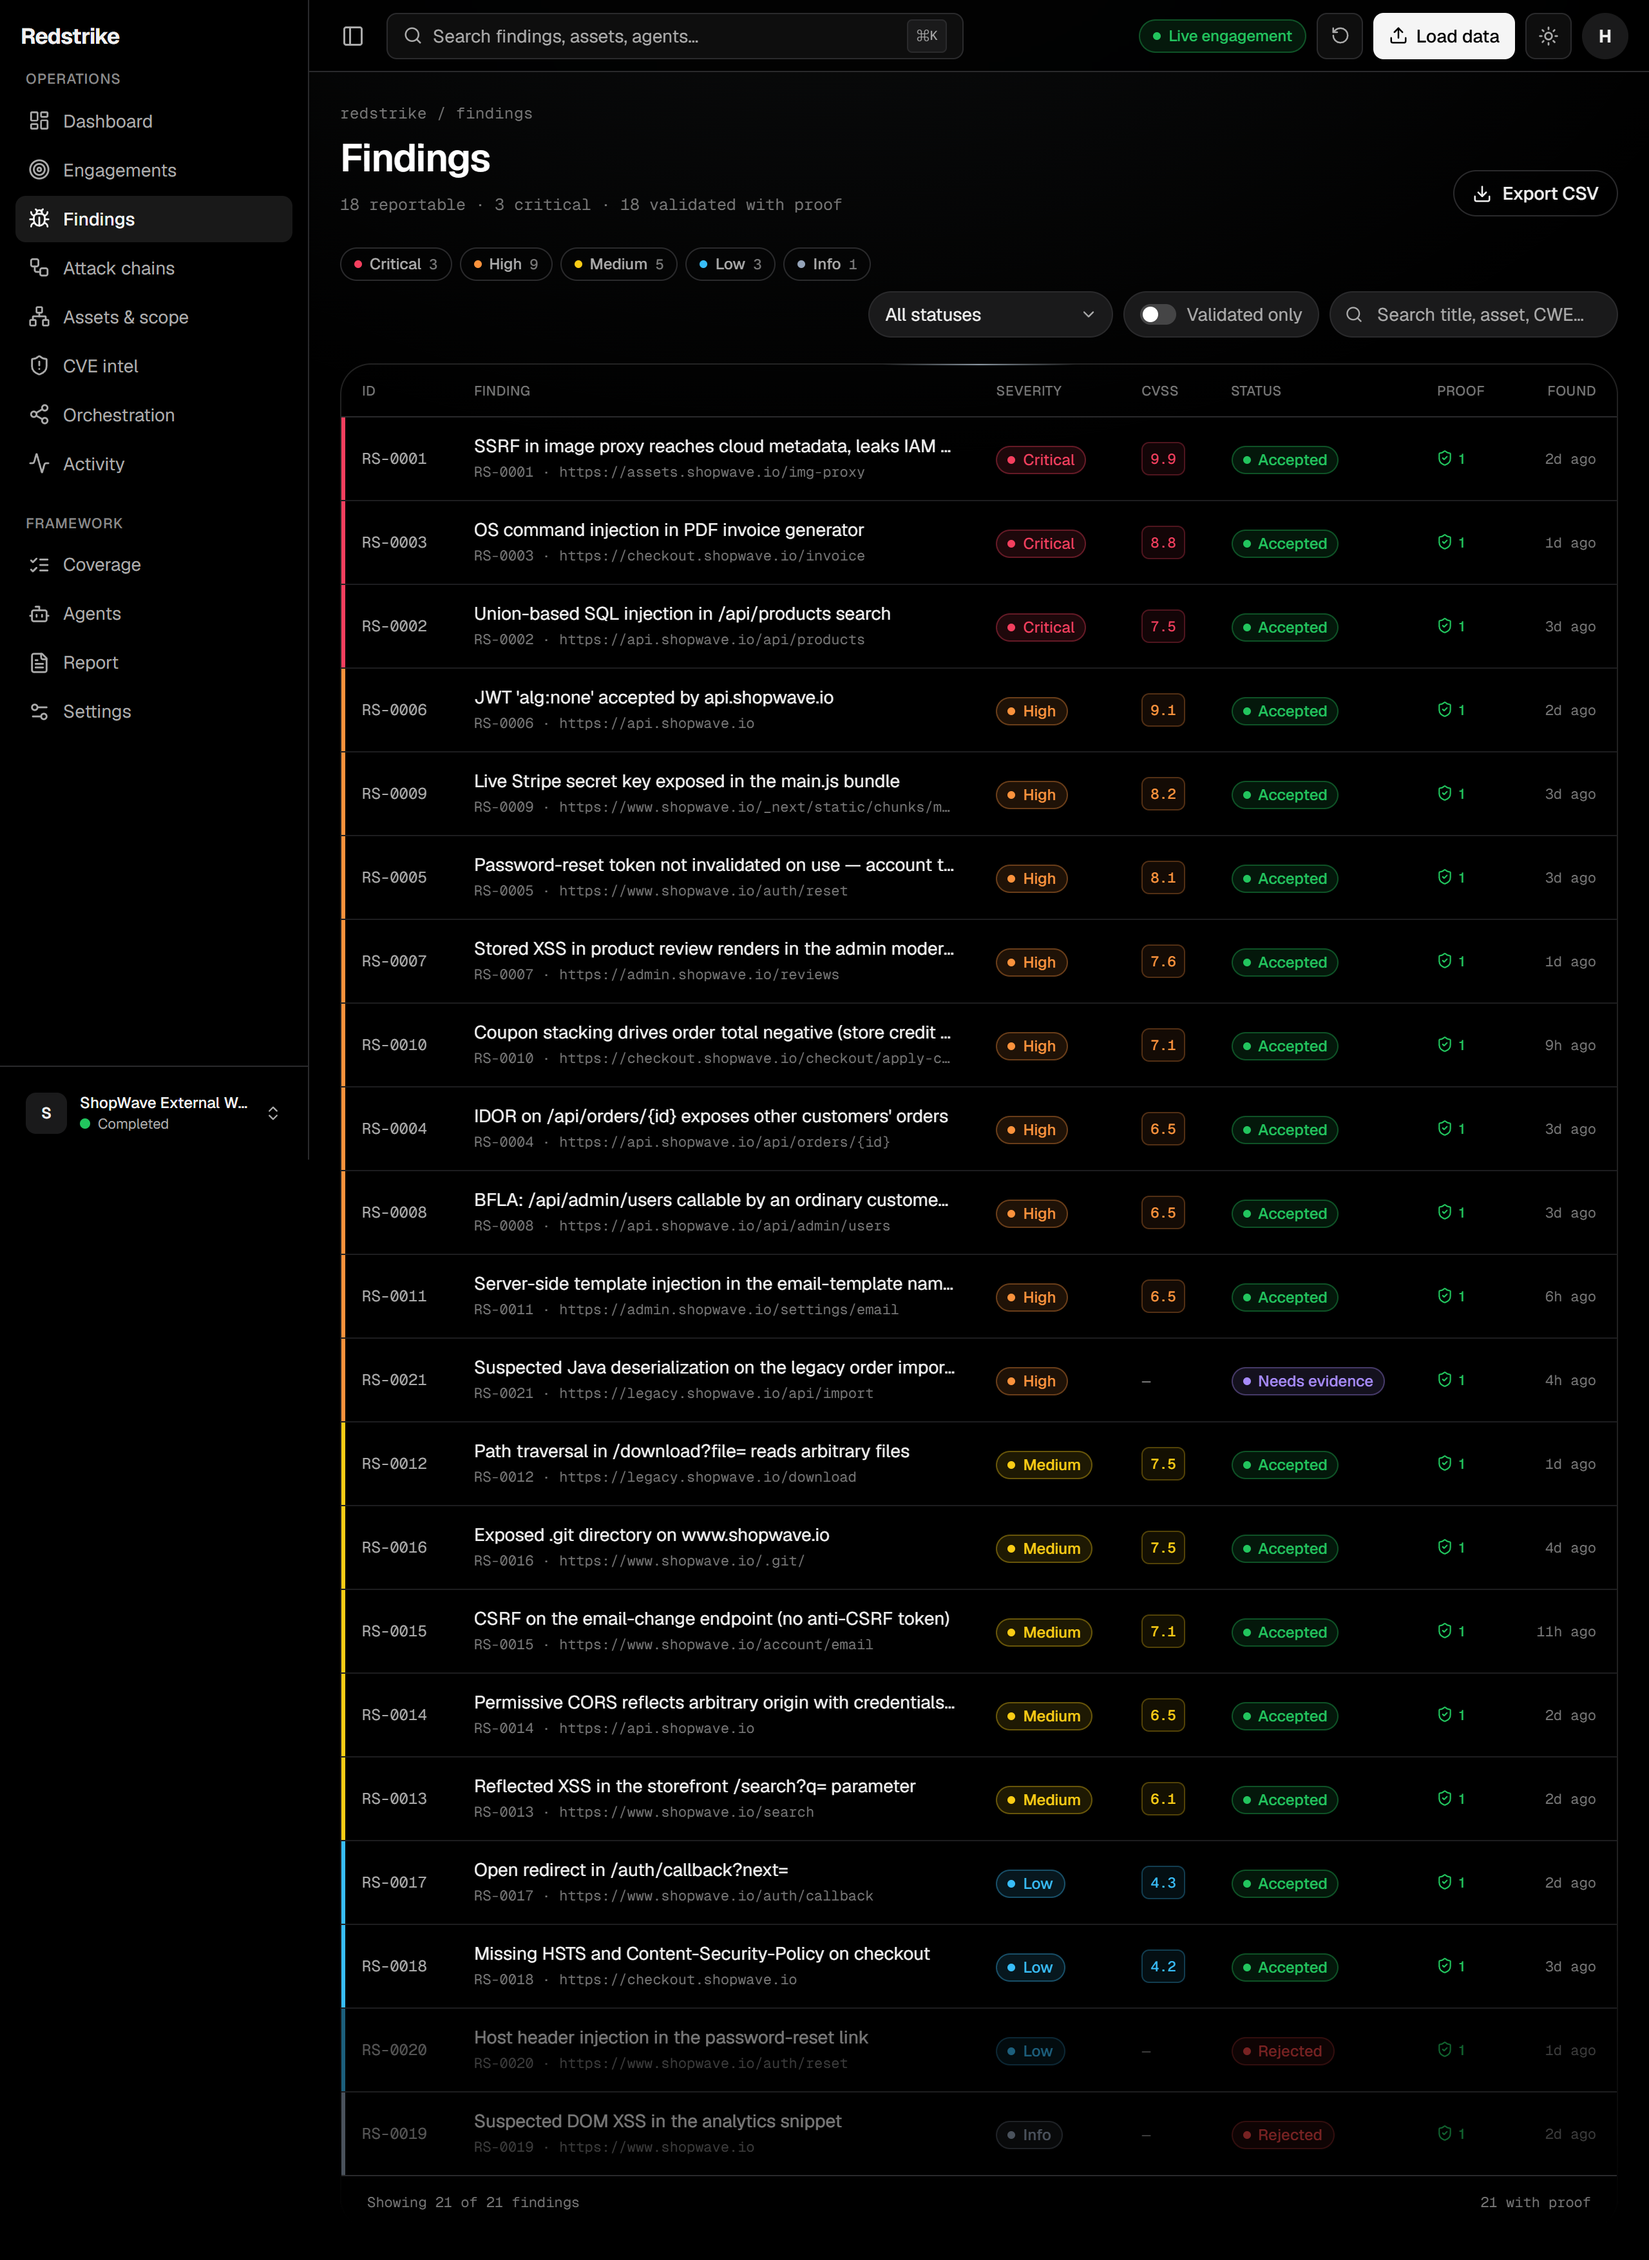
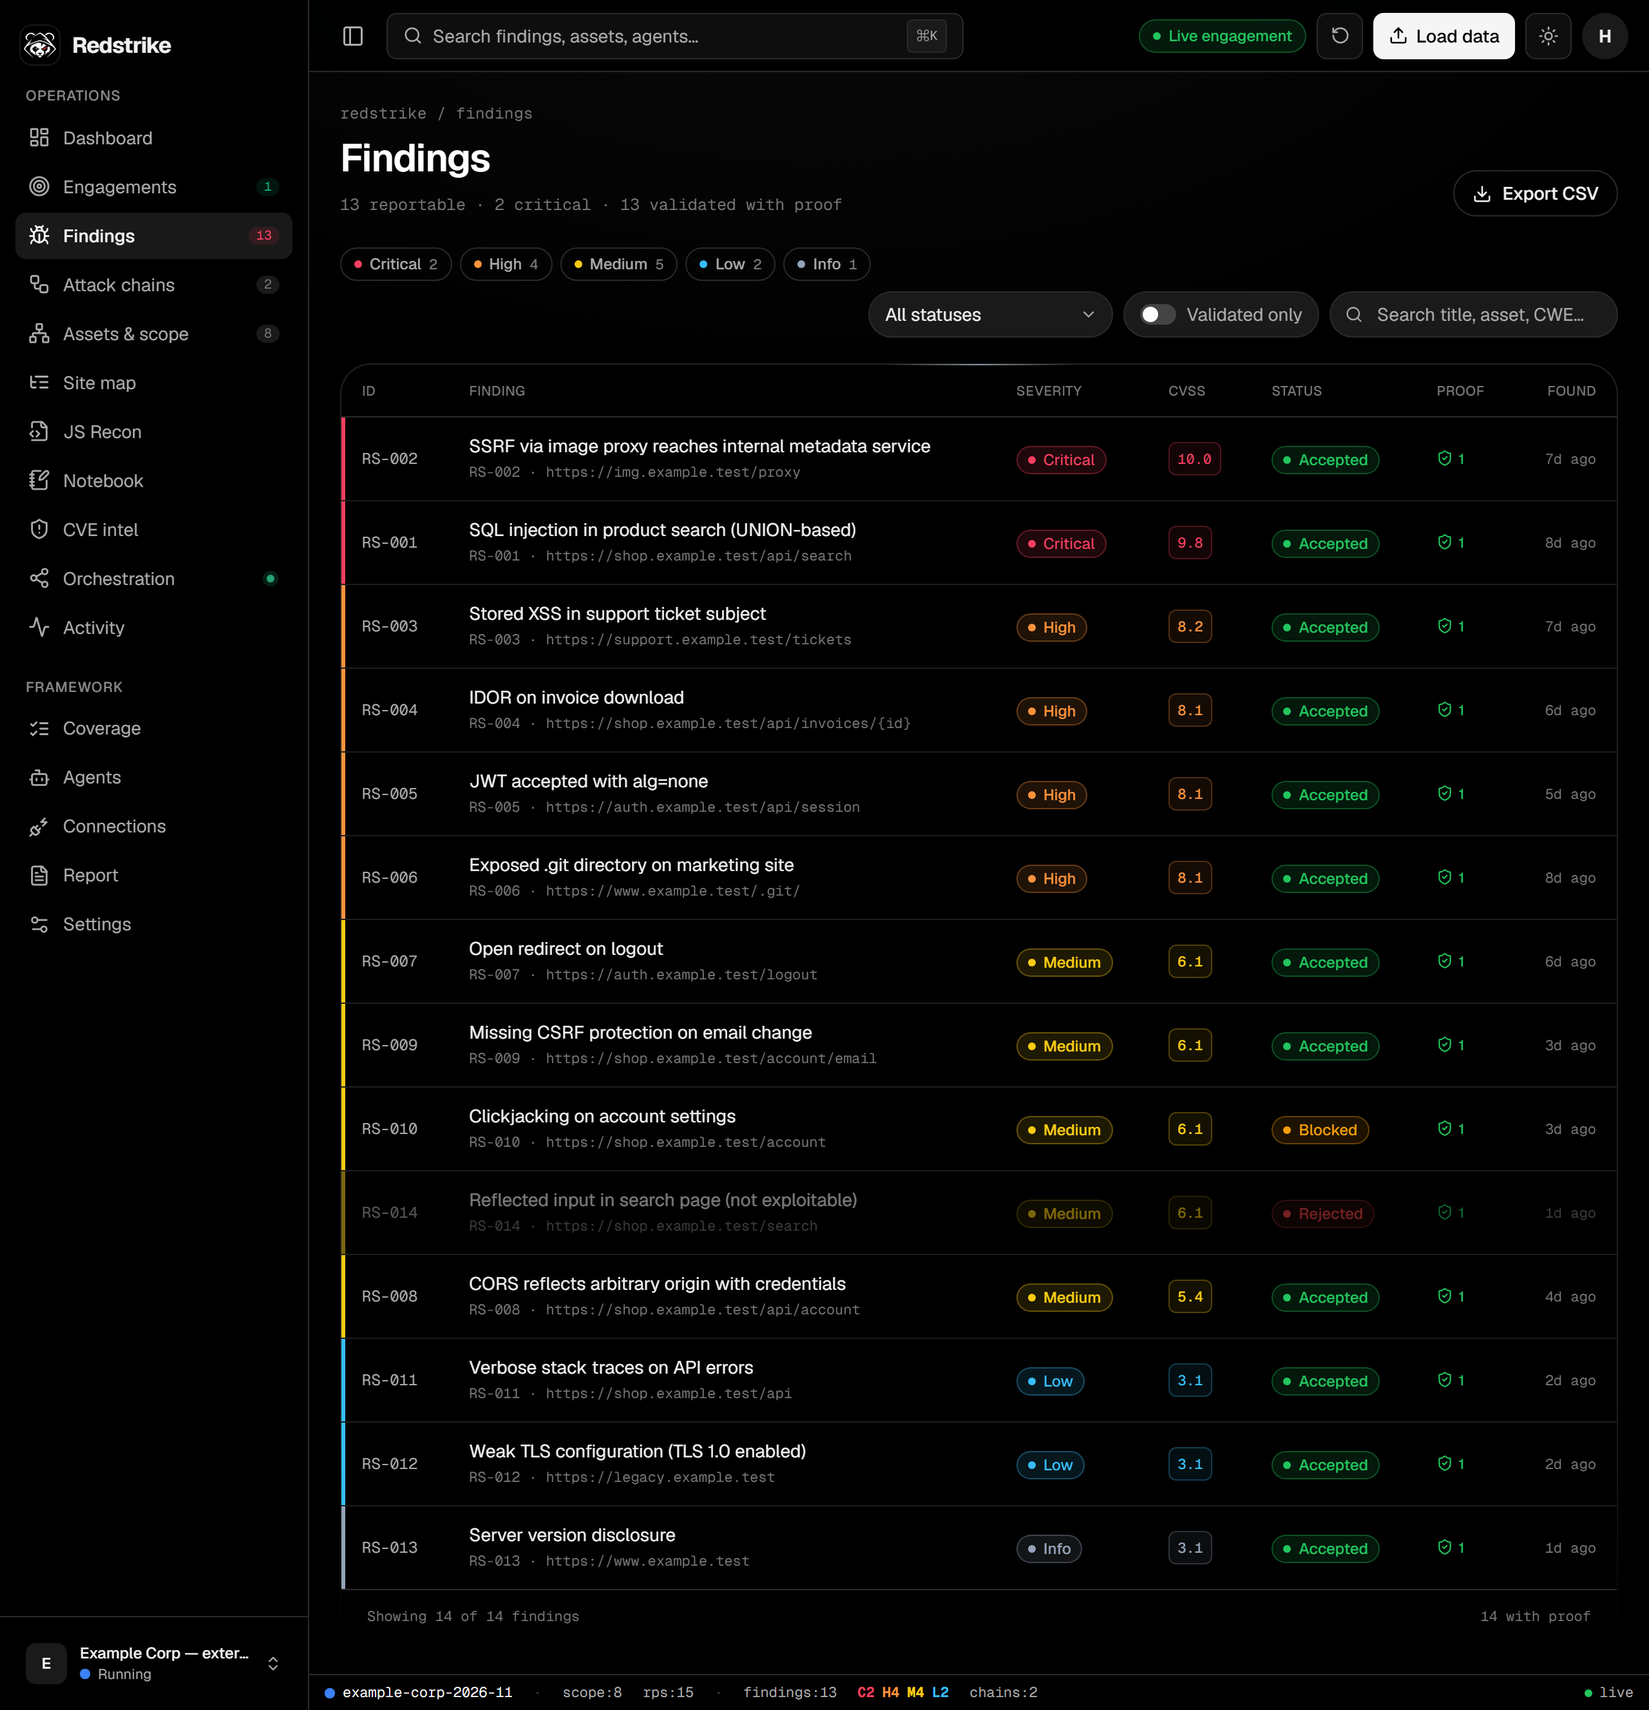
docs: refresh console screenshots; document the live control plane
- Recaptured all console views at 1280px/2x against a synthetic
  example.test engagement (no real engagement data): dashboard, findings,
  attack chains, assets, agents, report — plus two new ones,
  orchestration (a live run with a result returning to the orchestrator)
  and engagements (run status + coverage progress).
- README: the console section covers the opt-in control plane — live
  orchestration, findings landing as they happen, status that follows the
  run — and its start command; screenshots laid out with captions.
- console/README: view table updated — /orchestration, /sitemap,
  /coverage and /cve-intel added; the stale /control route removed
  (launch / stop / approvals live on Engagements).

diff --git a/README.md b/README.md
@@ -246,33 +246,45 @@ is a safety net over the OS sandbox (WSL2/Linux), not a replacement. Full docs: 
 
 ### 🖥 Console
 
-A zero-backend **web console** over the engagement data model — dark-mode, keyboard-driven, and built for an operator running a live assessment. Press <kbd>⌘K</kbd> to jump to any view, switch engagement, or open any finding; a terminal status bar keeps scope, rate limit and live severity tallies in view. It renders the real JSON the skills emit — `findings_consolidated.json` (reporting), `host_discovery.json` (host-discovery), `chains.json` (attack-chain-discovery) and `scope.yaml` — with **no demo data**. Point `scripts/console.py` at your `engagements/` directory and it serves **every** engagement at once (switch between them in the UI); point it at a single engagement dir for just that one. It scores CVSS 3.1 in-browser to match `scripts/cvss.py`, keeps composite kill-chains out of the severity counts, derives the agent/activity views from each finding's reviewer record, and colors the asset map by open-port risk. Built with **Next.js + TypeScript + Tailwind**.
+A **web console** over the engagement data model — dark-mode, keyboard-driven, and built for an operator running a live assessment. Press <kbd>⌘K</kbd> to jump to any view, switch engagement, or open any finding; a terminal status bar keeps scope, rate limit and live severity tallies in view. It renders the real JSON the skills emit — `findings_consolidated.json` (reporting), `host_discovery.json` (host-discovery), `chains.json` (attack-chain-discovery), `coverage_ledger.json` and `scope.yaml` — with **no demo data** (the screenshots below show a synthetic `example.test` engagement). Point `scripts/console.py` at your `engagements/` directory and it serves **every** engagement at once (switch between them in the UI); point it at a single engagement dir for just that one. It scores CVSS 3.1 in-browser to match `scripts/cvss.py`, keeps composite kill-chains out of the severity counts, derives the agent/activity views from each finding's reviewer record, and colors the asset map by open-port risk. Built with **Next.js + TypeScript + Tailwind**.
+
+Start it through `scripts/console_control.py --enable-control` instead and the same console becomes an opt-in, token-gated, localhost-only **control plane**: launch, approve and stop autonomous runs from the browser and watch them as they happen —
+
+- **Live orchestration** — the task flow follows the engine's own task list. Work streams out to each skill and subagent, and a subagent's result travels back to the orchestrator when it returns (green; amber on an error). The dispatch log narrates steps, dispatches and returns, while the raw engine log keeps every tool call.
+- **Findings land as they happen** — while a run is live the console re-reads only the data files that changed; new findings flash into the tables with a notice.
+- **Status follows the run** — *Running*, *Paused* (stopped by the operator) or *Completed*, with phase progress from the coverage ledger — and an explicit note when a run ended short (categories that never ran, no consolidated report yet).
 
 ```sh
-python scripts/console.py                                # build (first run) + serve ALL engagements/ → :8787
+python scripts/console.py                                # read-only viewer: build (first run) + serve ALL engagements/ → :8787
 python scripts/console.py engagements/<client>-<date>/   # or just one engagement
+python scripts/console_control.py --enable-control      # control plane: launch + steer runs live → :8788
 cd console && npm install && npm run dev                 # or: dev server for UI work (empty state)
 ```
 
 <p align="center">
   <img src="assets/console/dashboard.png" alt="Redstrike console — dashboard" width="100%" />
+  <br/><sub><b>Dashboard</b> — KPIs, findings over time, severity breakdown, two-altitude review, top issues, exposed assets, agent activity</sub>
+</p>
+
+<p align="center">
+  <img src="assets/console/orchestration.png" alt="Redstrike console — live orchestration" width="100%" />
+  <br/><sub><b>Orchestration</b> — a live run: the orchestrator dispatching to skills and subagents, a result on its way back, the task queue and the narrated dispatch log</sub>
 </p>
 
 <table>
   <tr>
+    <td width="50%"><img src="assets/console/engagements.png" alt="Engagements" width="100%" /><br/><sub><b>Engagements</b> — status that follows the run, coverage progress, launch / stop / approvals, scope and metrics</sub></td>
     <td width="50%"><img src="assets/console/findings.png" alt="Findings" width="100%" /><br/><sub><b>Findings</b> — filter, sort, severity-coded; full write-up drawer with evidence &amp; CVSS</sub></td>
-    <td width="50%"><img src="assets/console/attack-chains.png" alt="Attack chains" width="100%" /><br/><sub><b>Attack chains</b> — kill-chain graph composed from accepted findings</sub></td>
   </tr>
   <tr>
-    <td width="50%"><img src="assets/console/assets.png" alt="Assets and scope" width="100%" /><br/><sub><b>Assets &amp; scope</b> — radial domain mindmap of the coverage map (tested / in-progress / out-of-scope)</sub></td>
-    <td width="50%"><img src="assets/console/agents.png" alt="Agent fleet" width="100%" /><br/><sub><b>Agents</b> — the executor + independent-reviewer fleet, by family &amp; tier</sub></td>
+    <td width="50%"><img src="assets/console/attack-chains.png" alt="Attack chains" width="100%" /><br/><sub><b>Attack chains</b> — kill-chain graph composed from accepted findings</sub></td>
+    <td width="50%"><img src="assets/console/assets.png" alt="Assets and scope" width="100%" /><br/><sub><b>Assets &amp; scope</b> — radial domain mindmap of the coverage map, inventory, ports &amp; services, RoE</sub></td>
+  </tr>
+  <tr>
+    <td width="50%"><img src="assets/console/agents.png" alt="Agent fleet" width="100%" /><br/><sub><b>Agents</b> — the executor + independent-reviewer fleet, by family &amp; tier, with live status during a run</sub></td>
+    <td width="50%"><img src="assets/console/report.png" alt="Report" width="100%" /><br/><sub><b>Report</b> — executive summary, risk-ordered findings, attack chains, export / print</sub></td>
   </tr>
 </table>
-
-<p align="center">
-  <img src="assets/console/report.png" alt="Report" width="100%" />
-  <br/><sub><b>Report</b> — executive summary, risk-ordered findings, export / print</sub>
-</p>
 
 > Theme toggles light/dark; everything is monochrome chrome with color reserved for data (severity, verdict, coverage, graphs). See [`console/`](console/) for the full view list and how to load real engagement data.
 

diff --git a/console/README.md b/console/README.md
@@ -11,14 +11,17 @@ there is **no bundled demo data**.
 | Route | View | What it shows |
 |---|---|---|
 | `/` | **Dashboard** | KPIs, severity donut, findings-over-time, activity feed, top findings, category/asset breakdowns, two-altitude review roll-up |
-| `/engagements` | **Engagements** | The authorized assessment; pick one to make it the active context |
+| `/engagements` | **Engagements** | The authorized assessments with their run status (*Running* / *Paused* / *Completed* — following the actual run) and coverage progress; pick one to make it the active context. With the control plane: launch, stop, and approve deferred actions |
 | `/findings` | **Findings** | Filterable/sortable table + full detail drawer (CVSS, mappings, reproduction, evidence, remediation, reviewer verdict) |
 | `/chains` | **Attack chains** | Kill-chain flow graph composed from accepted findings |
 | `/assets` | **Assets & scope** | In/out-of-scope tree, RoE rules, force-directed coverage map, asset table, and **open ports & services** from host discovery |
 | `/js-recon` | **JS Recon** | The client-side JavaScript intelligence the js-analysis skill mined — endpoints, params, APIs, secrets (redacted), DOM sinks/gadgets and libraries (per site), plus the site summary. Reads the parsed `findings/*.jsonl` |
 | `/notebook` | **Notebook** | What an engagement gathers that isn't a finding yet: investigative leads (open→testing→promoted/dead), recon intel (subdomains/DNS/network/defenses/OSINT), the evidence locker, RoE and test accounts; export to Markdown |
 | `/activity` | **Activity** | Execution timeline derived from each finding's reviewer record (findings → reviews) |
-| `/control` | **Control plane** | *(opt-in)* Launch & steer an engagement: scaffold/pick, run autonomously, watch the live event stream, approve deferrals. Needs `scripts/console_control.py` |
+| `/orchestration` | **Orchestration** | *(opt-in, live)* A running engagement as it happens: the task flow (orchestrator → skills and subagents, following the engine's task list), results travelling back as subagents return, the task queue, and a dispatch log narrating steps, dispatches and returns. Launch / stop / approvals live on **Engagements**. Needs `scripts/console_control.py` |
+| `/sitemap` | **Site map** | Every discovered URL per host as a tree, merged from content discovery, host discovery, the proxy history and findings |
+| `/coverage` | **Coverage** | The routing ledger: which vulnerability categories were attempted, skipped with a reason, blocked, still pending, or out of phase |
+| `/cve-intel` | **CVE intel** | Version-matched CVEs for the detected components, plus a live feed of newly published CVEs |
 | `/agents` | **Agents** | The executor + independent-reviewer fleet, by family and tier; per-skill produced/accepted counts derived from the loaded findings |
 | `/connections` | **Agent Connections** | *(opt-in)* Connect the control plane, then bring your own coding-agent runtime (Claude Code · Codex · Gemini · Grok) via subscription login or an API key; live per-provider status, model selection, and disconnect. Needs `scripts/console_control.py` |
 | `/report` | **Report** | Client-ready assembly: executive summary, risk-ordered findings, demonstration-limited section, attack chains; export JSON / print to PDF |
